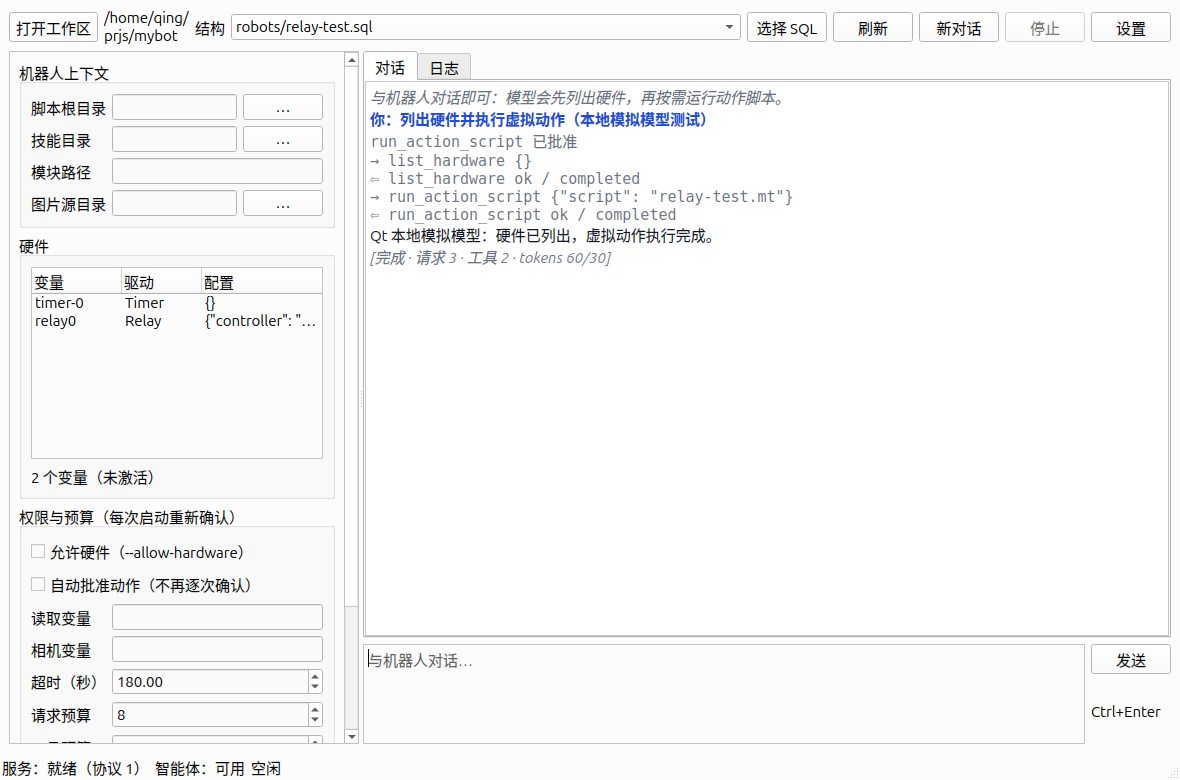
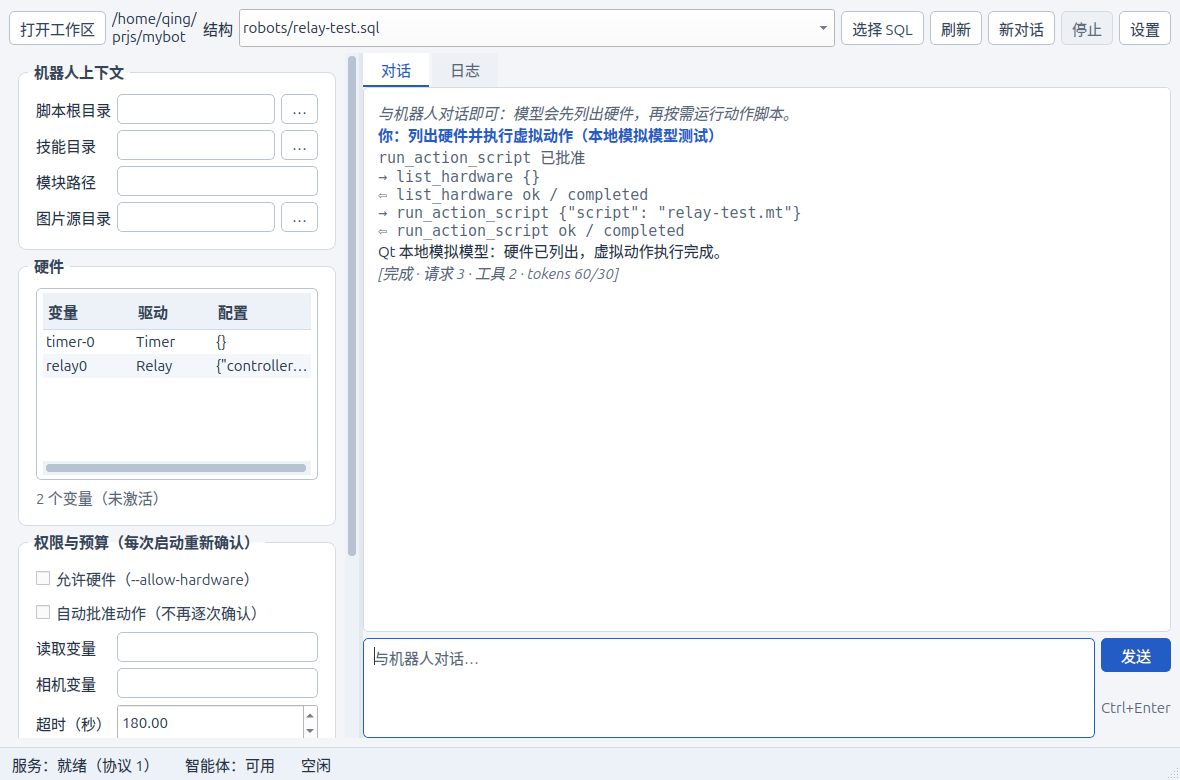
feat(gui): improve readability with a consistent light theme
Unify window and dialog colors while preserving native controls and clear action states. Add contrast coverage for light and dark system palettes and refresh the GUI screenshot.

Changed region(s): [[0.0, 0.0, 1.0, 1.0], [0.6102, 0.0, 1.0, 0.0615], [0.9153, 0.8923, 1.0, 0.9231]]

diff --git a/pymybot/gui/app.py b/pymybot/gui/app.py
@@ -10,7 +10,7 @@ import time
 from pathlib import Path
 
 from PySide6.QtCore import QEventLoop, Qt, QTimer, Signal
-from PySide6.QtGui import QColor, QFont, QFontDatabase, QKeySequence, QShortcut, QTextCharFormat, QTextCursor
+from PySide6.QtGui import QColor, QFont, QFontDatabase, QKeySequence, QPalette, QShortcut, QTextCharFormat, QTextCursor
 from PySide6.QtWidgets import (
     QApplication, QCheckBox, QComboBox, QDialog, QDialogButtonBox,
     QDoubleSpinBox, QFileDialog, QFormLayout, QGroupBox, QHBoxLayout, QLabel,
@@ -26,9 +26,108 @@ from .protocol import CANCELLED, CliCall, RpcError, ServeClient, cli_args, resol
 TITLE = "mybot · 智能体"
 MAX_DIALOG_ARGS = 4000
 PALETTE = {
-    "user": "#1d4ed8", "assistant": "#111827", "tool": "#6b7280",
-    "toolerr": "#b91c1c", "error": "#b91c1c", "system": "#6b7280",
+    "user": "#245cc5", "assistant": "#243247", "tool": "#536277",
+    "toolerr": "#b42332", "error": "#b42332", "system": "#59677a",
 }
+STYLESHEET = """
+QWidget { color: #243247; }
+QMainWindow, QDialog, QScrollArea > QWidget > QWidget { background: #f3f5f8; }
+QGroupBox {
+    background: #ffffff; border: 1px solid #d4dbe5; border-radius: 8px;
+    margin-top: 10px; padding: 12px 8px 8px; font-weight: 600;
+}
+QGroupBox::title { subcontrol-origin: margin; left: 10px; padding: 0 4px; color: #34445a; }
+QLabel#secondaryText { color: #59677a; }
+QScrollArea { border: none; }
+QLineEdit, QPlainTextEdit, QTreeWidget {
+    background: #ffffff; color: #243247; border: 1px solid #b8c3d2;
+    border-radius: 5px; padding: 4px 6px; placeholder-text-color: #59677a;
+    selection-background-color: #245cc5; selection-color: #ffffff;
+}
+QComboBox, QAbstractSpinBox {
+    background: #ffffff; color: #243247; min-height: 1.8em;
+    selection-background-color: #245cc5; selection-color: #ffffff;
+}
+QLineEdit:focus, QPlainTextEdit:focus, QTreeWidget:focus {
+    border: 1px solid #245cc5;
+}
+QLineEdit:disabled, QPlainTextEdit:disabled, QComboBox:disabled, QAbstractSpinBox:disabled {
+    color: #606d7e; background: #edf0f4; border-color: #d4dbe5;
+}
+QComboBox QAbstractItemView {
+    background: #ffffff; color: #243247;
+    selection-background-color: #245cc5; selection-color: #ffffff;
+}
+QPlainTextEdit#chatTranscript { padding: 10px; border: none; }
+QPlainTextEdit#eventLog { background: #f8fafc; padding: 10px; border: none; }
+QPushButton {
+    background: #ffffff; color: #34445a; border: 1px solid #b8c3d2;
+    border-radius: 5px; padding: 5px 10px;
+}
+QPushButton:hover { background: #edf3fc; border-color: #829ac0; }
+QPushButton:pressed { background: #dfe9f8; }
+QPushButton:default, QPushButton:focus { border: 2px solid #245cc5; padding: 4px 9px; }
+QPushButton[role="primary"] { background: #245cc5; color: #ffffff; border-color: #245cc5; }
+QPushButton[role="primary"]:hover { background: #1d4fae; border-color: #1d4fae; }
+QPushButton[role="primary"]:pressed { background: #193f8a; border-color: #193f8a; }
+QPushButton[role="primary"]:focus { border-color: #142e60; }
+QPushButton[role="danger"] { color: #b42332; }
+QPushButton[role="danger"]:hover { background: #fff1f2; border-color: #b42332; }
+QPushButton:disabled, QPushButton[role="primary"]:disabled, QPushButton[role="danger"]:disabled {
+    background: #edf0f4; color: #606d7e; border: 1px solid #d4dbe5; padding: 5px 10px;
+}
+QCheckBox { color: #34445a; spacing: 6px; padding: 3px 0; }
+QCheckBox:disabled { color: #606d7e; }
+QTabWidget::pane { background: #ffffff; border: 1px solid #d4dbe5; border-radius: 5px; }
+QTabBar::tab {
+    background: #edf0f4; color: #59677a; padding: 7px 18px;
+    border-bottom: 2px solid transparent; margin-right: 3px;
+}
+QTabBar::tab:selected { background: #ffffff; color: #245cc5; border-bottom-color: #245cc5; }
+QTabBar::tab:hover:!selected { background: #e5ebf4; color: #34445a; }
+QTreeWidget { alternate-background-color: #f3f6fa; }
+QTreeWidget::item { padding: 3px 0; }
+QHeaderView::section {
+    background: #edf2f8; color: #34445a; border: none;
+    border-bottom: 1px solid #d4dbe5; padding: 5px; font-weight: 600;
+}
+QSplitter::handle { background: #e3e8ef; }
+QSplitter::handle:hover { background: #b8c9e4; }
+QScrollBar:vertical { background: #edf2f8; width: 14px; margin: 0; }
+QScrollBar:horizontal { background: #edf2f8; height: 14px; margin: 0; }
+QScrollBar::handle { background: #b8c3d2; border: 3px solid #edf2f8; border-radius: 6px; }
+QScrollBar::handle:vertical { min-height: 28px; }
+QScrollBar::handle:horizontal { min-width: 28px; }
+QScrollBar::handle:hover { background: #829ac0; }
+QScrollBar::add-line, QScrollBar::sub-line { width: 0; height: 0; }
+QScrollBar::add-page, QScrollBar::sub-page { background: none; }
+QStatusBar { background: #edf2f8; color: #34445a; border-top: 1px solid #d4dbe5; }
+QStatusBar::item { border: none; }
+QStatusBar QLabel { padding: 3px 6px; }
+QToolTip { background: #243247; color: #ffffff; border: none; padding: 5px 8px; }
+"""
+
+
+def _apply_theme(window):
+    palette = QPalette()
+    for role, color in {
+        "Window": "#f3f5f8", "WindowText": "#243247", "Base": "#ffffff",
+        "AlternateBase": "#f3f6fa", "Text": "#243247", "Button": "#ffffff",
+        "ButtonText": "#34445a", "BrightText": "#ffffff", "Highlight": "#245cc5",
+        "Accent": "#245cc5", "HighlightedText": "#ffffff", "PlaceholderText": "#59677a",
+        "ToolTipBase": "#243247", "ToolTipText": "#ffffff",
+        "Link": "#245cc5", "LinkVisited": "#6547a3",
+        "Light": "#ffffff", "Midlight": "#edf0f4", "Mid": "#b8c3d2",
+        "Dark": "#606d7e", "Shadow": "#34445a",
+    }.items():
+        palette.setColor(getattr(QPalette.ColorRole, role), QColor(color))
+    for role in (QPalette.ColorRole.WindowText, QPalette.ColorRole.Text, QPalette.ColorRole.ButtonText):
+        palette.setColor(QPalette.ColorGroup.Disabled, role, QColor("#606d7e"))
+    window.setPalette(palette)
+    window.setStyleSheet(STYLESHEET)
+    font = window.font()
+    font.setPointSizeF(max(font.pointSizeF(), 10))
+    window.setFont(font)
 
 
 def _brief(value, limit=160):
@@ -50,15 +149,19 @@ def _absolute(path, root):
     return str(candidate if candidate.is_absolute() else Path(root or ".").absolute() / candidate)
 
 
-def _label(text=""):
+def _label(text="", *, secondary=False):
     label = QLabel(text)
     label.setTextFormat(Qt.TextFormat.PlainText)
     label.setWordWrap(True)
+    if secondary:
+        label.setObjectName("secondaryText")
     return label
 
 
-def _button(text, callback):
+def _button(text, callback, *, role=None):
     button = QPushButton(text)
+    if role:
+        button.setProperty("role", role)
     button.clicked.connect(callback)
     return button
 
@@ -100,6 +203,7 @@ class App(QMainWindow):
         self._dialogs = set()
         self.font_mono = QFontDatabase.systemFont(QFontDatabase.SystemFont.FixedFont)
 
+        _apply_theme(self)
         self._build()
         self._notice_timer = QTimer(self)
         self._notice_timer.setSingleShot(True)
@@ -137,7 +241,7 @@ class App(QMainWindow):
         toolbar.addWidget(_button("选择 SQL", self.pick_robot))
         toolbar.addWidget(_button("刷新", self.refresh_context))
         self.new_button = _button("新对话", self.new_conversation)
-        self.stop_button = _button("停止", self.stop_turn)
+        self.stop_button = _button("停止", self.stop_turn, role="danger")
         toolbar.addWidget(self.new_button)
         toolbar.addWidget(self.stop_button)
         toolbar.addWidget(_button("设置", self.open_settings))
@@ -191,11 +295,12 @@ class App(QMainWindow):
         self.hardware_tree = QTreeWidget()
         self.hardware_tree.setHeaderLabels(["变量", "驱动", "配置"])
         self.hardware_tree.setRootIsDecorated(False)
+        self.hardware_tree.setAlternatingRowColors(True)
         self.hardware_tree.setMinimumHeight(140)
         self.hardware_tree.setColumnWidth(0, 90)
         self.hardware_tree.setColumnWidth(1, 80)
         hw_layout.addWidget(self.hardware_tree)
-        self.hardware_note = _label("选择结构后自动读取")
+        self.hardware_note = _label("选择结构后自动读取", secondary=True)
         hw_layout.addWidget(self.hardware_note)
         layout.addWidget(hardware)
 
@@ -233,12 +338,12 @@ class App(QMainWindow):
         self.notebook = QTabWidget()
         self.chat = QPlainTextEdit()
         self.chat.setReadOnly(True)
-        self.chat.setStyleSheet("QPlainTextEdit { background: #ffffff; color: #111827; }")
+        self.chat.setObjectName("chatTranscript")
         self.log = QPlainTextEdit()
         self.log.setReadOnly(True)
         self.log.setFont(self.font_mono)
         self.log.setLineWrapMode(QPlainTextEdit.LineWrapMode.NoWrap)
-        self.log.setStyleSheet("QPlainTextEdit { background: #111827; color: #d1d5db; }")
+        self.log.setObjectName("eventLog")
         self.notebook.addTab(self.chat, "对话")
         self.notebook.addTab(self.log, "日志")
         layout.addWidget(self.notebook, 1)
@@ -248,9 +353,9 @@ class App(QMainWindow):
         self.task_box.setMaximumHeight(100)
         composer.addWidget(self.task_box, 1)
         buttons = QVBoxLayout()
-        self.send_button = _button("发送", self.send_task)
+        self.send_button = _button("发送", self.send_task, role="primary")
         buttons.addWidget(self.send_button)
-        buttons.addWidget(_label("Ctrl+Enter"))
+        buttons.addWidget(_label("Ctrl+Enter", secondary=True))
         composer.addLayout(buttons)
         layout.addLayout(composer)
         self.send_shortcuts = []
@@ -344,6 +449,7 @@ class App(QMainWindow):
 
     def _message(self, title, text, *, confirm=False):
         dialog = QMessageBox(self)
+        _apply_theme(dialog)
         dialog.setWindowTitle(title)
         dialog.setTextFormat(Qt.TextFormat.PlainText)
         dialog.setText(text)
@@ -959,13 +1065,14 @@ class ToolDialog(QDialog):
 
     def __init__(self, parent, tool, arguments):
         super().__init__(parent)
+        _apply_theme(self)
         self.setWindowTitle("智能体请求调用工具")
         self.setModal(True)
         self.resize(620, 400)
         self.setMinimumSize(520, 320)
         layout = QVBoxLayout(self)
         layout.addWidget(_label(f"工具：{tool}"))
-        layout.addWidget(_label("下面是模型给出的完整参数；批准后本次调用立即执行。"))
+        layout.addWidget(_label("下面是模型给出的完整参数；批准后本次调用立即执行。", secondary=True))
         self.arguments = QPlainTextEdit()
         self.arguments.setReadOnly(True)
         self.arguments.setFont(QFontDatabase.systemFont(QFontDatabase.SystemFont.FixedFont))
@@ -996,6 +1103,7 @@ class SettingsDialog(QDialog):
 
     def __init__(self, parent, cfg: GuiConfig, workspace, config_path=""):
         super().__init__(parent)
+        _apply_theme(self)
         self.setWindowTitle("设置")
         self.setModal(True)
         self.resize(640, 680)
@@ -1032,10 +1140,11 @@ class SettingsDialog(QDialog):
         self.session_log = QCheckBox("保存会话转录（~/.mybot/sessions）")
         self.session_log.setChecked(bool(cfg.session_log))
         form.addRow(self.session_log)
-        layout.addWidget(_label("密钥只读取环境变量，窗口不保存也不显示它。"))
-        layout.addWidget(_label(f"配置文件：{config_path or '（默认位置）'}"))
+        layout.addWidget(_label("密钥只读取环境变量，窗口不保存也不显示它。", secondary=True))
+        layout.addWidget(_label(f"配置文件：{config_path or '（默认位置）'}", secondary=True))
         self.buttons = QDialogButtonBox(QDialogButtonBox.StandardButton.Save | QDialogButtonBox.StandardButton.Cancel)
         self.buttons.button(QDialogButtonBox.StandardButton.Save).setText("保存")
+        self.buttons.button(QDialogButtonBox.StandardButton.Save).setProperty("role", "primary")
         self.buttons.button(QDialogButtonBox.StandardButton.Cancel).setText("取消")
         self.buttons.accepted.connect(self._save)
         self.buttons.rejected.connect(self.reject)

diff --git a/tests/test_gui.py b/tests/test_gui.py
@@ -445,6 +445,72 @@ def test_window_builds_with_robot_context(ui):
     assert [app.notebook.tabText(i) for i in range(2)] == ["对话", "日志"]
 
 
+def color_contrast(first, second):
+    def luminance(color):
+        rgb = (color.redF(), color.greenF(), color.blueF())
+        linear = [c / 12.92 if c <= 0.04045 else ((c + 0.055) / 1.055) ** 2.4 for c in rgb]
+        return sum(c * weight for c, weight in zip(linear, (0.2126, 0.7152, 0.0722)))
+
+    values = sorted((luminance(first), luminance(second)))
+    return (values[1] + 0.05) / (values[0] + 0.05)
+
+
+@pytest.mark.parametrize("dark_system", [False, True])
+def test_theme_is_readable_without_changing_system_palette(app_factory, qapp, dark_system):
+    from PySide6.QtGui import QColor, QPalette
+
+    original = qapp.palette()
+    system = QPalette(original)
+    if dark_system:
+        for role in (QPalette.ColorRole.Window, QPalette.ColorRole.Base, QPalette.ColorRole.Button):
+            system.setColor(role, QColor("#202020"))
+        for role in (QPalette.ColorRole.WindowText, QPalette.ColorRole.Text, QPalette.ColorRole.ButtonText):
+            system.setColor(role, QColor("#eeeeee"))
+    qapp.setPalette(system)
+    dialogs = []
+    try:
+        gui, app = app_factory()
+        dialogs = [gui.SettingsDialog(app, app.cfg, str(ROOT)), gui.ToolDialog(app, "run", "{}")]
+        for dialog in dialogs:
+            dialog.show()
+        qapp.processEvents()
+        assert qapp.palette() == system
+        assert app.font().pointSizeF() >= 10
+        for widget in [app, *dialogs]:
+            palette = widget.palette()
+            assert palette.color(QPalette.ColorRole.Window).lightnessF() > 0.9
+            assert color_contrast(palette.windowText().color(), palette.window().color()) >= 4.5
+        for widget in (app.chat, app.log, app.task_box, app.robot_box, app.timeout_box,
+                       app.hardware_tree, dialogs[0].entries["model"], dialogs[1].arguments):
+            for group in (QPalette.ColorGroup.Active, QPalette.ColorGroup.Inactive):
+                palette = widget.palette()
+                assert color_contrast(palette.color(group, QPalette.ColorRole.Text),
+                                      palette.color(group, QPalette.ColorRole.Base)) >= 4.5
+                assert color_contrast(palette.color(group, QPalette.ColorRole.HighlightedText),
+                                      palette.color(group, QPalette.ColorRole.Highlight)) >= 4.5
+        for color in gui.PALETTE.values():
+            assert color_contrast(QColor(color), app.chat.palette().base().color()) >= 4.5
+        assert app.task_box.palette().placeholderText().color().alpha() == 255
+        assert color_contrast(app.task_box.palette().placeholderText().color(),
+                              app.task_box.palette().base().color()) >= 4.5
+        for label in app.findChildren(gui.QLabel):
+            assert color_contrast(label.palette().windowText().color(), QColor("#f3f5f8")) >= 4.5
+        for enabled in (True, False):
+            app.send_button.setEnabled(enabled)
+            app.stop_button.setEnabled(enabled)
+            qapp.processEvents()
+            for button in (app.send_button, app.stop_button):
+                palette = button.palette()
+                assert color_contrast(palette.buttonText().color(), palette.button().color()) >= 4.5
+        assert dialogs[1].deny_button.isDefault()
+        assert not dialogs[1].approve_button.autoDefault()
+    finally:
+        for dialog in dialogs:
+            dialog.close()
+            dialog.deleteLater()
+        qapp.setPalette(original)
+
+
 def test_chat_lines_and_deltas_form_one_transcript(ui):
     _, app = ui
     app._chat_line("你：你好", "user")
